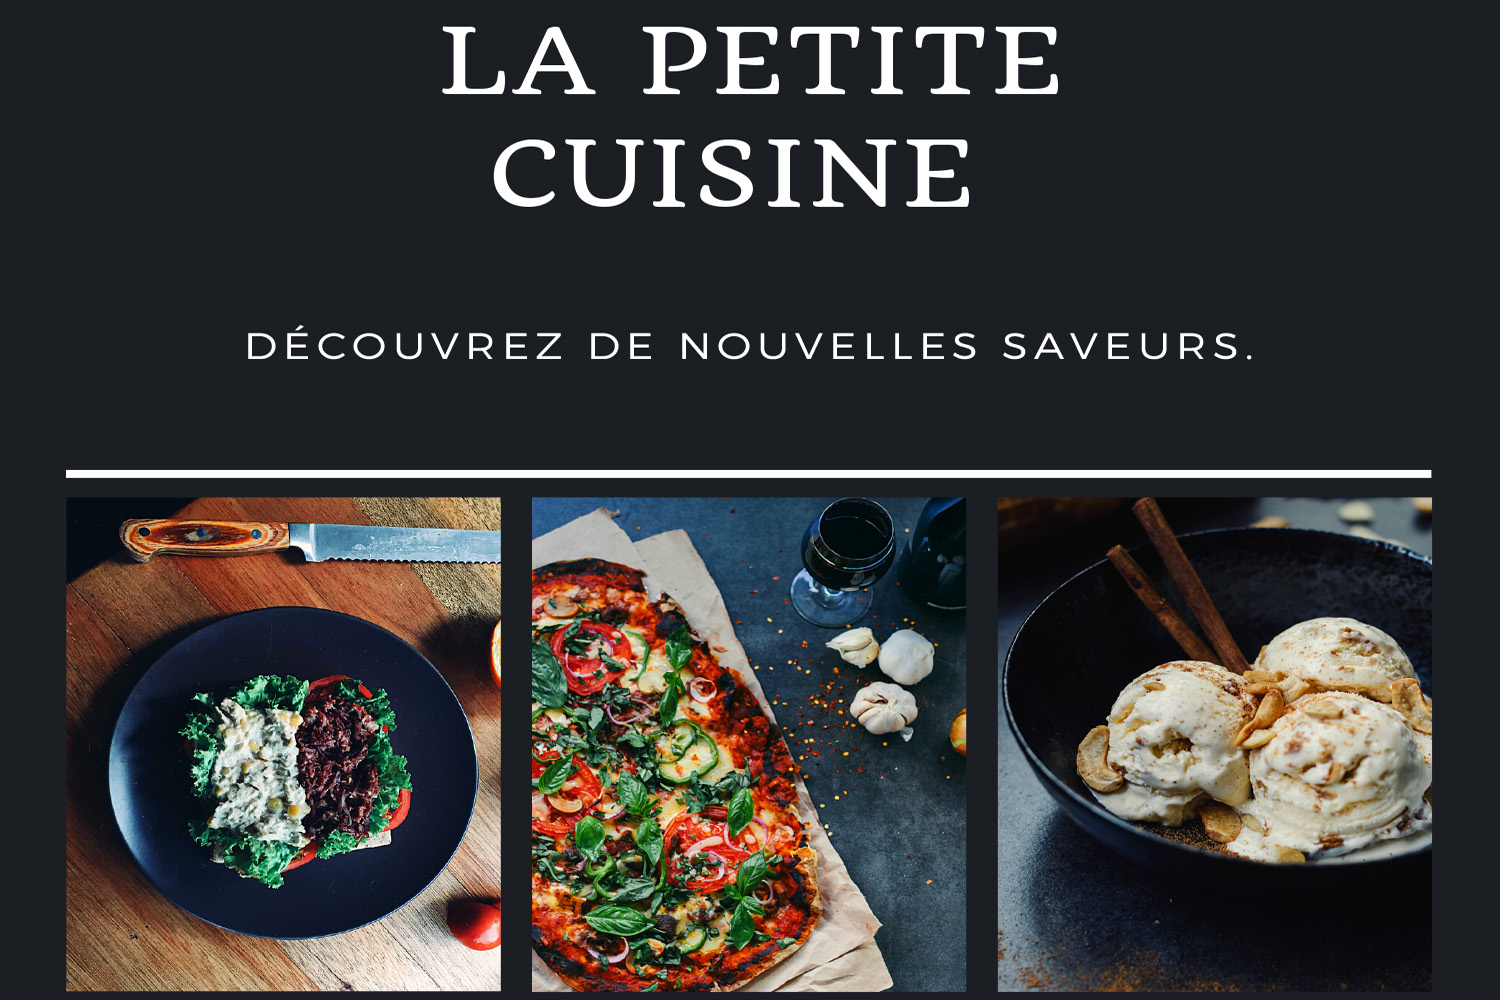
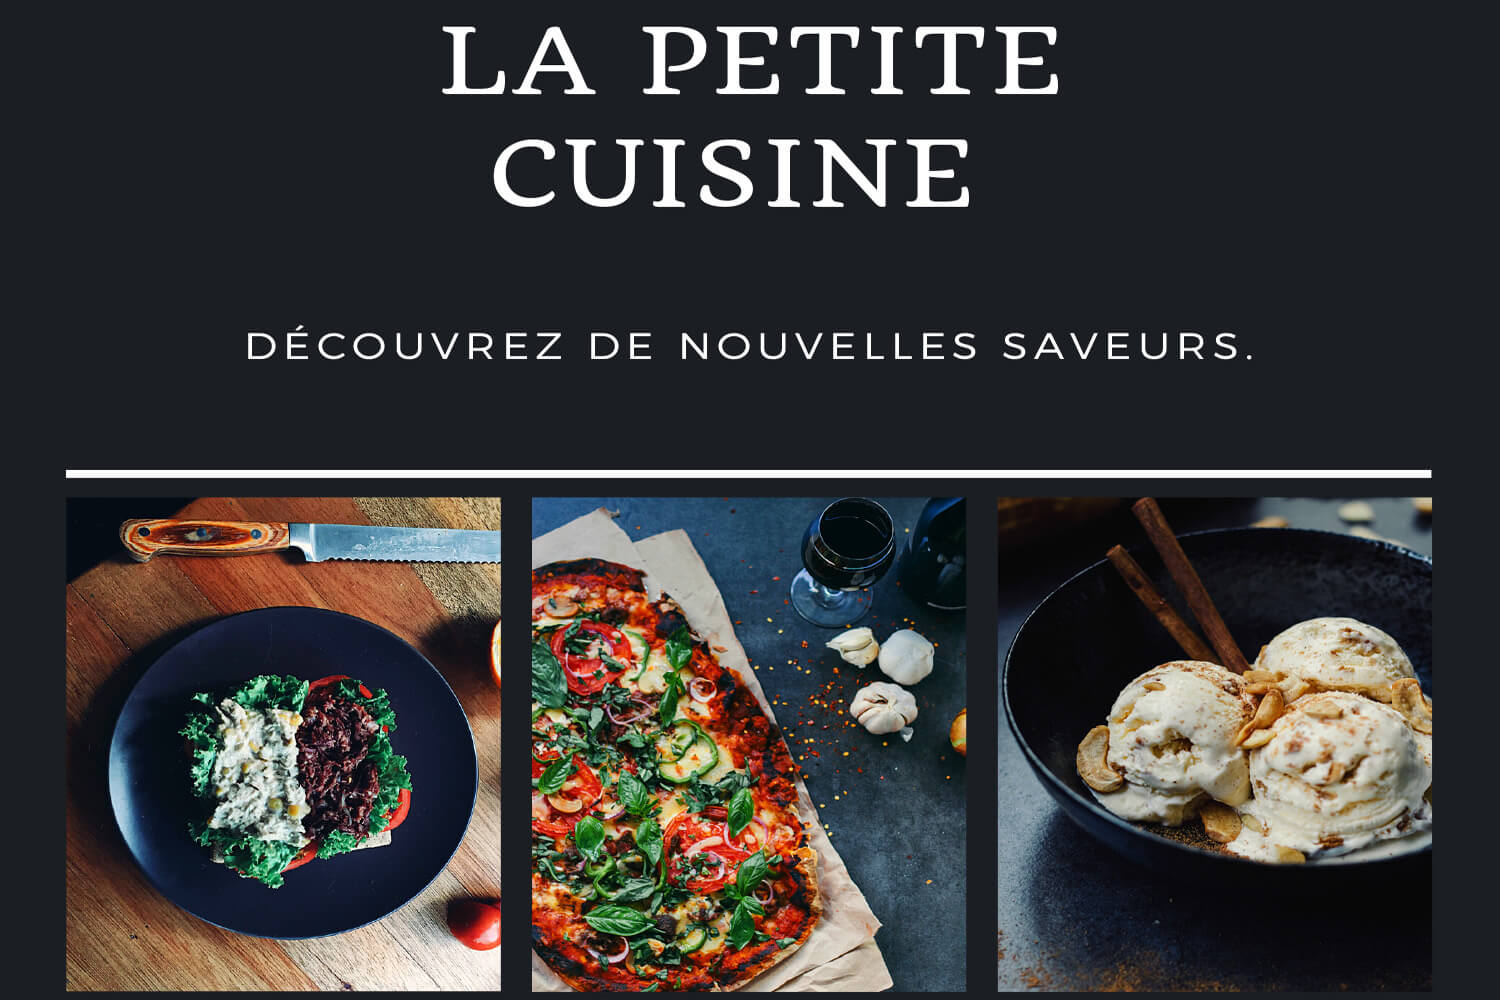
Compress Image and Update Text Content

diff --git a/index.html b/index.html
@@ -109,7 +109,7 @@
                                  I love to get new experiences and always learn from my surroundings. 
                                  I've done numerous projects in many different field. You can check it through portfolio section on
                                 this website.  </p>
-                            <p>  I am looking for a <b>4-5 month internship starting April 2020.</b> </p>
+                            <h3>  I am looking for a <b>4-5 month internship starting April 2020 as a data scientist. </b><a href="./resources/HELALI_Nader_CV.pdf">You will find here my resume.</h3></a> 
                         </div>
                     </div>
 
